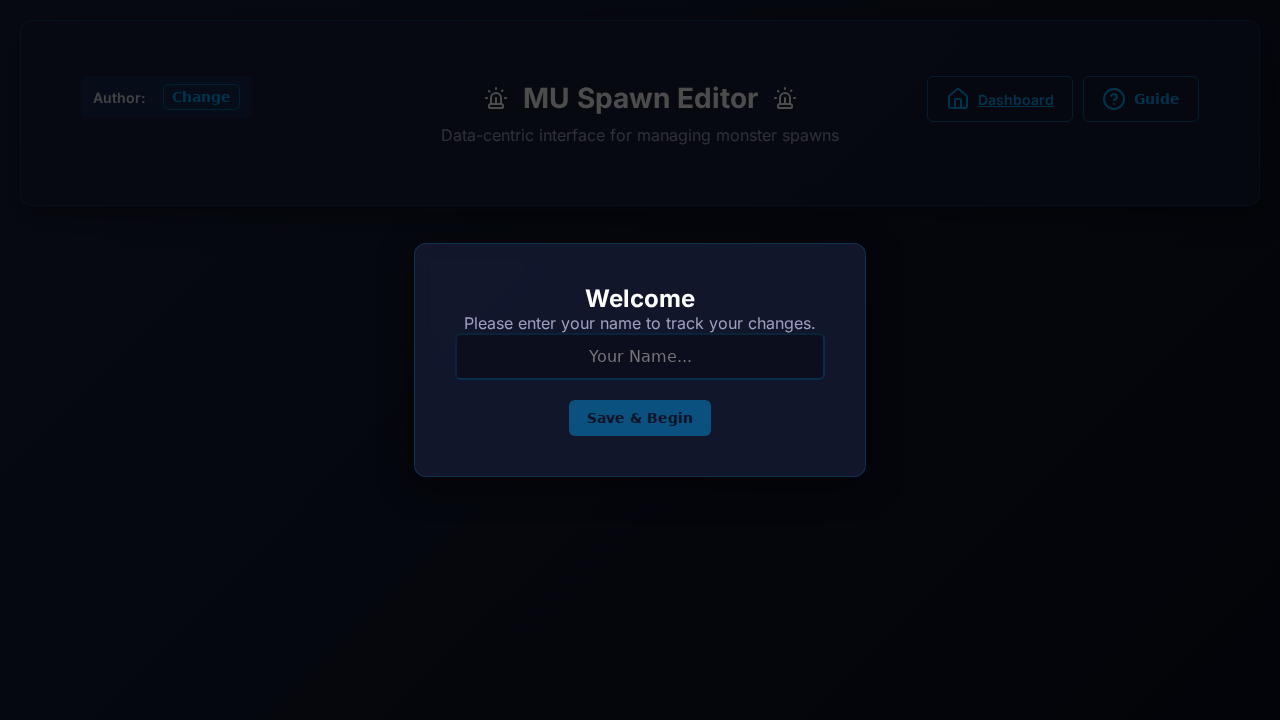
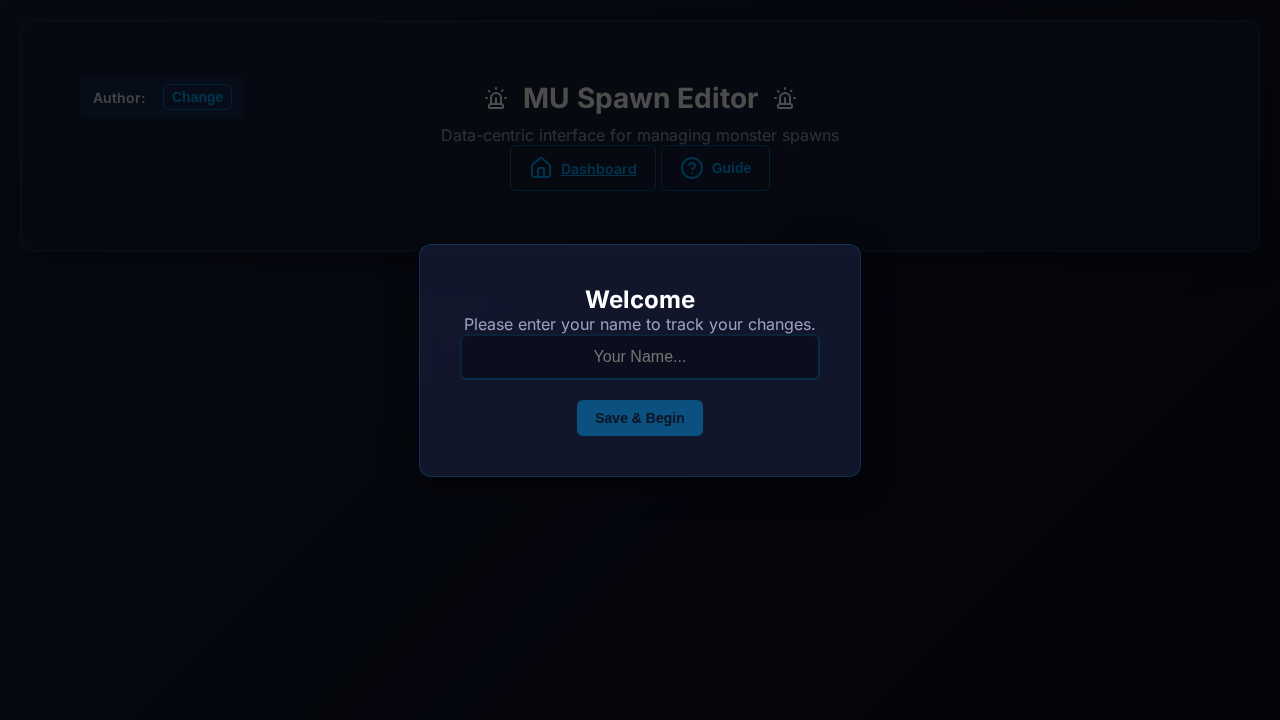
feat: Standardize and beautify editor UI
- Standardizes the headers across all editor pages for a consistent look and feel.
- Implements a new, modern visual theme using a global stylesheet (`public/css/style.css`).
- The new theme includes an animated gradient background, a "glass effect" for containers, and improved button styling.
- Removes inline styles from all editor pages to rely on the global stylesheet.
- Fixes a pathing issue for the stylesheet in `index.html`.

diff --git a/shopeditor.html b/shopeditor.html
@@ -23,7 +23,7 @@
                 <button class="close-btn" onclick="closeConfirmModal()"><i data-lucide="x"></i></button>
             </div>
             <div class="modal-body">
-                <p id="confirmMessage" style="color: var(--text-secondary); line-height: 1.6%;">This action cannot be undone.</p>
+                <p id="confirmMessage">This action cannot be undone.</p>
             </div>
             <div class="modal-footer">
                 <button class="btn btn-outline" onclick="closeConfirmModal()">Cancel</button>
@@ -48,19 +48,21 @@
             <h1><i data-lucide="store"></i>MU Shop Editor<i data-lucide="store"></i></h1>
             <p>Manage NPC shop inventories across the server</p>
             
-            <div class="back-button-control">
-                <button class="btn btn-outline" onclick="checkUnsavedChangesAndRedirect()"><i data-lucide="arrow-left"></i> Dashboard</button>
+            <div class="header-right-controls">
+                <a href="index.html" class="btn btn-outline" title="Back to Dashboard">
+                    <i data-lucide="home"></i>Dashboard
+                </a>
                 <button class="btn btn-outline" onclick="openGuideModal()"><i data-lucide="help-circle"></i>Guide</button>
             </div>
         </div>
         
         <div id="statusBar" class="status-bar"></div>
         
-        <div id="dataManagementSection" class="glass-effect" style="display: none; padding: 20px;">
+        <div id="dataManagementSection" class="glass-effect" style="display: none;">
             <div style="display: flex; justify-content: space-between; align-items: center;">
                 <div>
                     <h3><i data-lucide="database"></i>Data Management</h3>
-                    <p style="font-size: 14px; color: var(--text-secondary);">Your edits are saved locally. Server merging is handled on save.</p>
+                    <p>Your edits are saved locally. Server merging is handled on save.</p>
                 </div>
                 <button class="btn btn-danger" onclick="confirmClearCache()">
                     <i data-lucide="trash-2"></i> Clear Local Cache
@@ -69,12 +71,12 @@
         </div>
         
         <div class="main-content" id="mainContent" style="display: none;">
-            <div class="sidebar glass-effect" style="padding: 20px;">
+            <div class="sidebar glass-effect">
                 <h3><i data-lucide="contact"></i>Shops</h3>
-                <div class="search-bar" style="margin-bottom: 15px;"><input type="text" id="shopSearch" oninput="filterShops()" placeholder="Search shops..."></div>
+                <div class="search-bar"><input type="text" id="shopSearch" oninput="filterShops()" placeholder="Search shops..."></div>
                 <div class="shop-list" id="shopList"></div>
             </div>
-            <div class="editor-panel glass-effect" style="padding: 25px;">
+            <div class="editor-panel glass-effect">
                 <div id="editorContent"><div class="empty-state"><h3>Select a Shop</h3><p>Choose a shop from the list on the left to start editing.</p></div></div>
             </div>
         </div>

diff --git a/public/css/style.css b/public/css/style.css
@@ -205,3 +205,61 @@
         .dropdown:hover .btn-primary { background: #fff; }
         .dropdown .btn i { transition: transform 0.2s ease-in-out; }
         .dropdown:hover .btn i { transform: rotate(180deg); }
+
+        /* MODIFICATION: New section for beautification and unified controls */
+        .header-right-controls {
+            position: absolute;
+            top: 25px;
+            right: 30px;
+            display: flex;
+            gap: 10px;
+        }
+
+        .form-divider {
+            grid-column: 1 / -1;
+            display: flex;
+            align-items: center;
+            gap: 15px;
+            margin: 20px 0;
+        }
+        .form-divider h4 {
+            color: var(--text-secondary);
+            font-weight: 600;
+            white-space: nowrap;
+        }
+        .form-divider hr {
+            width: 100%;
+            border: none;
+            border-top: 1px solid rgba(0, 170, 255, 0.2);
+        }
+
+        @keyframes background-pan {
+            0% { background-position: 0% 50%; }
+            50% { background-position: 100% 50%; }
+            100% { background-position: 0% 50%; }
+        }
+
+        body {
+            background: linear-gradient(135deg, #1a223f 0%, var(--bg-dark) 50%, #1a223f 100%);
+            background-size: 200% 200%;
+            animation: background-pan 30s ease infinite;
+        }
+
+        .glass-effect {
+            background: radial-gradient(circle at top left, rgba(26, 34, 63, 0.7), rgba(26, 34, 63, 0.5));
+            box-shadow: 0 8px 32px 0 rgba(0, 0, 0, 0.5), 0 0 1px 1px rgba(0, 170, 255, 0.2);
+        }
+
+        .btn {
+            box-shadow: 0 2px 8px rgba(0,0,0,0.3);
+            transform: translateY(0);
+        }
+        .btn:hover:not(:disabled) {
+            transform: translateY(-2px);
+            box-shadow: 0 4px 12px rgba(0,0,0,0.4);
+        }
+        .btn-primary:hover:not(:disabled) { background: #fff; color: var(--bg-dark); }
+        .btn-success:hover:not(:disabled) { background: #fff; color: var(--bg-dark); }
+        .btn-danger:hover:not(:disabled) { background: #fff; color: var(--accent-pink); }
+        .btn-outline:hover { background: rgba(0, 170, 255, 0.1); border-color: var(--accent-blue); }
+        .btn-warning:hover:not(:disabled) { background: #fff; color: var(--bg-dark); }

diff --git a/zendropeditor.html b/zendropeditor.html
@@ -24,7 +24,7 @@
                 <button class="close-btn" onclick="closeConfirmModal()"><i data-lucide="x"></i></button>
             </div>
             <div class="modal-body">
-                <p id="confirmMessage" style="color: var(--text-secondary); line-height: 1.6;">This action cannot be undone.</p>
+                <p id="confirmMessage">This action cannot be undone.</p>
             </div>
             <div class="modal-footer">
                 <button class="btn btn-outline" onclick="closeConfirmModal()">Cancel</button>
@@ -71,7 +71,7 @@
             <!-- NEW: Right-side controls (Back to Dashboard and Guide) -->
             <div class="header-right-controls">
                 <a href="index.html" class="btn btn-outline" title="Back to Dashboard">
-                    <i data-lucide="arrow-left"></i>Dashboard
+                    <i data-lucide="home"></i>Dashboard
                 </a>
                 <button class="btn btn-outline" onclick="openGuideModal()">
                     <i data-lucide="help-circle"></i>Guide
@@ -80,7 +80,6 @@
             
             <h1><i data-lucide="droplets"></i>Drop Rate Editor<i data-lucide="droplets"></i></h1>
             <p>Zen & Excellent Option drop rate management</p>
-            <!-- Removed old absolute guide button -->
         </div>
         
         <!-- Status Bar -->

diff --git a/mixeditor.html b/mixeditor.html
@@ -27,7 +27,7 @@
                 <button class="close-btn" onclick="closeConfirmModal()"><i data-lucide="x"></i></button>
             </div>
             <div class="modal-body">
-                <p id="confirmMessage" style="color: var(--text-secondary); line-height: 1.6;">This action cannot be undone.</p>
+                <p id="confirmMessage">This action cannot be undone.</p>
             </div>
             <div class="modal-footer">
                 <button class="btn btn-outline" onclick="closeConfirmModal()">Cancel</button>
@@ -53,7 +53,12 @@
             </div>
             <h1><i data-lucide="flask-conical"></i>Chaos Mix Editor<i data-lucide="flask-conical"></i></h1>
             <p>Manage all Chaos Machine recipes and configurations</p>
-            <button class="btn btn-outline" style="position: absolute; top: 25px; right: 30px;" onclick="openGuideModal()"><i data-lucide="help-circle"></i>Guide</button>
+            <div class="header-right-controls">
+                <a href="index.html" class="btn btn-outline" title="Back to Dashboard">
+                    <i data-lucide="home"></i>Dashboard
+                </a>
+                <button class="btn btn-outline" onclick="openGuideModal()"><i data-lucide="help-circle"></i>Guide</button>
+            </div>
         </div>
         
         <!-- Status Bar -->

diff --git a/monsterspawneditor.html b/monsterspawneditor.html
@@ -255,7 +255,7 @@
             </div>
             <h1><i data-lucide="siren"></i>MU Spawn Editor<i data-lucide="siren"></i></h1>
             <p>Data-centric interface for managing monster spawns</p>
-            <div class="header-right-controls" style="position: absolute; top: 25px; right: 30px; display: flex; gap: 10px;">
+            <div class="header-right-controls">
                 <a href="index.html" class="btn btn-outline" title="Back to Dashboard">
                     <i data-lucide="home"></i>Dashboard
                 </a>

diff --git a/monsterdropeditor.html b/monsterdropeditor.html
@@ -37,7 +37,7 @@
             <p>Manage item drops for each map bag file (<code>EachMonsterMapDrop</code>)</p>
             
             <!-- START: UPDATED HEADER CONTROLS -->
-            <div class="header-right-controls" style="position: absolute; top: 25px; right: 30px; display: flex; gap: 10px;">
+            <div class="header-right-controls">
                 <a href="index.html" class="btn btn-outline" title="Back to Dashboard">
                     <i data-lucide="home"></i>Dashboard
                 </a>

diff --git a/index.html b/index.html
@@ -9,7 +9,7 @@
     <link rel="preconnect" href="https://fonts.googleapis.com">
     <link rel="preconnect" href="https://fonts.gstatic.com" crossorigin>
     <link href="https://fonts.googleapis.com/css2?family=Fira+Code:wght@500&family=Inter:wght@400;600;700&display=swap" rel="stylesheet">
-    <link rel="stylesheet" href="css/style.css">
+    <link rel="stylesheet" href="/css/style.css">
     <script src="https://unpkg.com/lucide@latest"></script>
 </head>
 <body>
